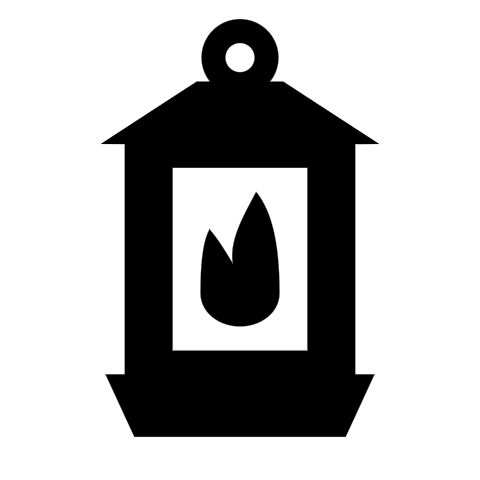
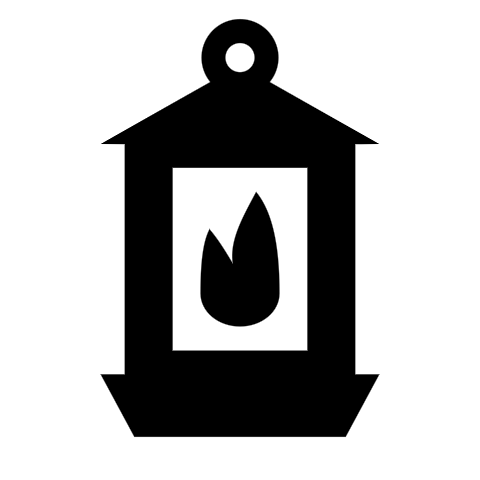
Icone: niente dettagli sotto il taglio
La regola dei fili vale anche per le sporgenze: un gradino più piccolo di C,
da piccolo, diventa un dentino confuso.
- Il pomo della spada sporgeva dal manico di 2 per parte: ora 5. Il manico
  si accorcia di 2, così la spada non si allunga (raggio +7%).
- La base della lanterna sporgeva di 4 dal corpo: ora 5.
- In cima al tetto della lanterna restava una spalla di un'unità sotto
  l'anello: il tetto ora finisce a filo.

Diciotto sabotaggi presi, suite verde.

Claude-Session: https://claude.ai/code/session_01AE7uzpDH1Lo1PHb29aXJxZ

diff --git a/docs/icone_statistiche.md b/docs/icone_statistiche.md
@@ -22,15 +22,15 @@ taglio.
 
 | icona | le due figure | pienezza | dalla media | raggio | dalla media | centro visivo | ingombro (unità) |
 |---|---|---|---|---|---|---|---|
-| Punti vita | il cuore + la cicatrice cucita | 0.311 | +5.4% | 26.0 | -3.0% | +0.1, -1.6 | da 11.0,17.0 a 89.0,87.0 |
-| Attacco | la spada + il fendente | 0.278 | -5.9% | 28.9 | +7.7% | -0.6, -1.6 | da 12.0,10.5 a 93.7,91.9 |
-| Difesa | lo scudo + i merli | 0.281 | -4.8% | 27.7 | +3.4% | +0.0, -2.4 | da 20.0,10.0 a 80.0,92.0 |
-| Velocità | il fulmine + la sua eco | 0.305 | +3.4% | 25.3 | -5.6% | +1.3, -3.5 | da 11.0,8.0 a 91.8,96.0 |
-| Intelligenza | l'occhio + la serratura | 0.311 | +5.5% | 27.1 | +1.0% | +0.0, -0.1 | da 4.0,20.0 a 96.0,80.0 |
-| Forza mentale | la lanterna + il fuoco | 0.284 | -3.7% | 28.1 | +4.7% | +0.0, +0.7 | da 21.0,4.0 a 79.0,91.0 |
-| Fattore | il fuoco + l'emblema | 0.294 | -0.4% | 25.2 | -6.0% | +1.0, +1.5 | da 23.1,4.0 a 76.9,92.0 |
+| Punti vita | il cuore + la cicatrice cucita | 0.311 | +5.4% | 26.0 | -2.9% | +0.1, -1.6 | da 11.0,17.0 a 89.0,87.0 |
+| Attacco | la spada + il fendente | 0.280 | -5.1% | 28.8 | +7.4% | -0.6, -1.6 | da 12.0,10.5 a 93.7,91.9 |
+| Difesa | lo scudo + i merli | 0.281 | -4.8% | 27.7 | +3.5% | +0.0, -2.4 | da 20.0,10.0 a 80.0,92.0 |
+| Velocità | il fulmine + la sua eco | 0.305 | +3.5% | 25.3 | -5.6% | +1.3, -3.5 | da 11.0,8.0 a 91.8,96.0 |
+| Intelligenza | l'occhio + la serratura | 0.311 | +5.5% | 27.1 | +1.1% | +0.0, -0.1 | da 4.0,20.0 a 96.0,80.0 |
+| Forza mentale | la lanterna + il fuoco | 0.282 | -4.6% | 28.0 | +4.5% | +0.0, +1.0 | da 21.0,4.0 a 79.0,91.0 |
+| Fattore | il fuoco + l'emblema | 0.294 | -0.4% | 25.2 | -5.9% | +1.0, +1.5 | da 23.1,4.0 a 76.9,92.0 |
 | Maestria del dominio | la corona + la barra del dominio | 0.308 | +4.4% | 27.3 | +1.8% | +0.0, -1.9 | da 9.0,9.0 a 91.0,80.0 |
-| Aura | il vortice + la scia | 0.284 | -3.8% | 25.7 | -4.0% | -1.1, +3.0 | da 16.7,4.0 a 85.4,90.5 |
+| Aura | il vortice + la scia | 0.284 | -3.8% | 25.7 | -3.9% | -1.1, +3.0 | da 16.7,4.0 a 85.4,90.5 |
 
 Medie: pienezza 0.295, raggio 26.8.
 

diff --git a/docs/simboli.md b/docs/simboli.md
@@ -744,6 +744,13 @@ La prova `prova_le_icone_si_reggono` controlla tutto questo:
   pixel: il taglio cresceva anche attorno alla cinta. Ora quei 3 in più calano
   quando il taglio cresce. Nella scheda stanno tutte entro il 10% (l'occhio è
   il più pesante, +9%), e la prova lo controlla.
+- **Niente dettagli sotto il taglio.** La regola dei fili vale anche per le
+  sporgenze: un gradino più piccolo di C da piccolo diventa un dentino
+  confuso.
+  - Il pomo della spada sporgeva dal manico di 2 per parte: ora 5.
+  - La base della lanterna sporgeva di 4: ora 5.
+  - In cima al tetto restava una spalla di un'unità sotto l'anello: ora il tetto
+    finisce a filo.
 - **I pixel.** Ho pensato di allineare i lati dritti alla griglia dei pixel,
   come si fa con le icone piccole. Ma il gioco sfuma ogni bordo di un pixel e
   un quarto a cavallo del bordo vero (`Manifesto.poligono`): allineato o no, il
